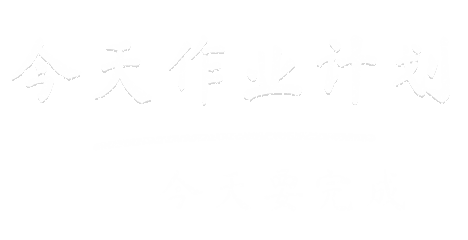
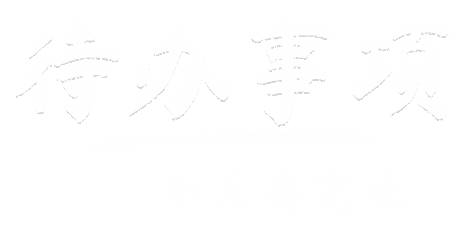
首页第一块黑板标题改成「待办事项」
粉笔字图重新生成（App 和小程序各一份），黑板的无障碍名称、角色图标名字跟着改。
待办模块内页和首页「下一项」那行还叫「今天作业计划」，这次没动。

Claude-Session: https://claude.ai/code/session_01F32sKvEcKYYw6RL2ED99c1

diff --git a/app/src/lib/roleIcons.ts b/app/src/lib/roleIcons.ts
@@ -1,5 +1,5 @@
 /**
- * 角色图标：首页四块黑板上的「试卷小人」，各拿一样东西（今天作业计划拿夹板清单、学习计划拿台历、错题收集拿打叉的卷子、试卷擦除举板擦）。
+ * 角色图标：首页四块黑板上的「试卷小人」，各拿一样东西（待办事项拿夹板清单、学习计划拿台历、错题收集拿打叉的卷子、试卷擦除举板擦）。
  * 身体和插画 Buddy（App components/Illustration.tsx、小程序 components/Buddy.tsx）是同一张画，只是整体左移 16 给道具让位。160×160 画布。
  * 两套主题 × 深浅色各一份配色，和 tokens.css 的 --ill-* 同一套值。设计稿和 SVG 素材在项目文件 screenshots/home-blackboard/。
  * 这个文件 App 和小程序各放一份，内容保持一致（app/src/lib/roleIcons.ts ↔ miniprogram/src/lib/roleIcons.ts）。
@@ -15,7 +15,7 @@ const PALETTES: Record<string, Palette> = {
   pop:            { paper: "#ffffff", paper2: "#ffd6e2", line: "#f4608f", ink: "#4a2a36", cheek: "#ffb4a8", tie: "#00aeec", star: "#ffc53d", ok: "#00aeec", okbg: "#d3f1fd", shadow: "rgba(120,40,70,.12)", wrong: "#f4608f", wrongbg: "#ffe3ec", soft: "#d3f1fd" },
   "pop-dark":     { paper: "#f4f6ff", paper2: "#5a2c3d", line: "#ff8fb0", ink: "#2a1a22", cheek: "#ff9d90", tie: "#5cc8f0", star: "#ffc53d", ok: "#00aeec", okbg: "#d3f1fd", shadow: "rgba(0,0,0,.45)", wrong: "#f4608f", wrongbg: "#ffe3ec", soft: "#d3f1fd" },
 };
-export const ROLE_NAMES: Record<RoleName, string> = { todo: "今天作业计划", plan: "学习计划", wrong: "错题收集", erase: "试卷擦除" };
+export const ROLE_NAMES: Record<RoleName, string> = { todo: "待办事项", plan: "学习计划", wrong: "错题收集", erase: "试卷擦除" };
 
 function inner(scene: RoleName, p: Palette, shadow: boolean): string {
   const S = `stroke="${p.line}" stroke-width="2.5" stroke-linecap="round" stroke-linejoin="round"`;

diff --git a/miniprogram/src/lib/roleIcons.ts b/miniprogram/src/lib/roleIcons.ts
@@ -1,5 +1,5 @@
 /**
- * 角色图标：首页四块黑板上的「试卷小人」，各拿一样东西（今天作业计划拿夹板清单、学习计划拿台历、错题收集拿打叉的卷子、试卷擦除举板擦）。
+ * 角色图标：首页四块黑板上的「试卷小人」，各拿一样东西（待办事项拿夹板清单、学习计划拿台历、错题收集拿打叉的卷子、试卷擦除举板擦）。
  * 身体和插画 Buddy（App components/Illustration.tsx、小程序 components/Buddy.tsx）是同一张画，只是整体左移 16 给道具让位。160×160 画布。
  * 两套主题 × 深浅色各一份配色，和 tokens.css 的 --ill-* 同一套值。设计稿和 SVG 素材在项目文件 screenshots/home-blackboard/。
  * 这个文件 App 和小程序各放一份，内容保持一致（app/src/lib/roleIcons.ts ↔ miniprogram/src/lib/roleIcons.ts）。
@@ -15,7 +15,7 @@ const PALETTES: Record<string, Palette> = {
   pop:            { paper: "#ffffff", paper2: "#ffd6e2", line: "#f4608f", ink: "#4a2a36", cheek: "#ffb4a8", tie: "#00aeec", star: "#ffc53d", ok: "#00aeec", okbg: "#d3f1fd", shadow: "rgba(120,40,70,.12)", wrong: "#f4608f", wrongbg: "#ffe3ec", soft: "#d3f1fd" },
   "pop-dark":     { paper: "#f4f6ff", paper2: "#5a2c3d", line: "#ff8fb0", ink: "#2a1a22", cheek: "#ff9d90", tie: "#5cc8f0", star: "#ffc53d", ok: "#00aeec", okbg: "#d3f1fd", shadow: "rgba(0,0,0,.45)", wrong: "#f4608f", wrongbg: "#ffe3ec", soft: "#d3f1fd" },
 };
-export const ROLE_NAMES: Record<RoleName, string> = { todo: "今天作业计划", plan: "学习计划", wrong: "错题收集", erase: "试卷擦除" };
+export const ROLE_NAMES: Record<RoleName, string> = { todo: "待办事项", plan: "学习计划", wrong: "错题收集", erase: "试卷擦除" };
 
 function inner(scene: RoleName, p: Palette, shadow: boolean): string {
   const S = `stroke="${p.line}" stroke-width="2.5" stroke-linecap="round" stroke-linejoin="round"`;

diff --git a/app/src/pages/Home.tsx b/app/src/pages/Home.tsx
@@ -27,7 +27,7 @@ const DAY_MS = 86400000;
 
 /**
  * 首页（黑板四宫格，界面稿见项目文件 screenshots/home-blackboard/）：
- * 顶部品牌名、「今天，学一点」和连续打卡天数；本周打卡条；四块黑板入口「今天作业计划」「学习计划」「错题收集」「试卷擦除」，
+ * 顶部品牌名、「今天，学一点」和连续打卡天数；本周打卡条；四块黑板入口「待办事项」「学习计划」「错题收集」「试卷擦除」，
  * 黑板颜色跟主题走（--hero-a / --hero-b），粉笔字是烘好的透明图（assets/chalk/，tools/chalk-titles.mjs 生成），小人是角色图标（RoleIcon）；
  * 下面是识别进度、没扫出来的小喇叭通知、今天作业计划的下一项、近 30 天错题数。
  * 打卡：当天作业计划全部做完算打一次卡（服务端 GET /api/homework 带的 checkin）。
@@ -122,7 +122,7 @@ export default function Home() {
         <WeekStrip checkin={checkin} now={now} onClick={() => nav("/homework")} />
 
         <div className="hb__grid rise" style={{ ["--i" as string]: 0 }}>
-          <Board role="todo" chalk={chalkTodo} doodle="sun" badge={todoBadge} label="今天作业计划" onClick={() => nav("/homework")} />
+          <Board role="todo" chalk={chalkTodo} doodle="sun" badge={todoBadge} label="待办事项" onClick={() => nav("/homework")} />
           <Board role="plan" chalk={chalkPlan} doodle="star" badge={planBadge} label="学习计划" onClick={() => nav("/plans")} />
           <Board role="wrong" chalk={chalkWrong} doodle="star" badge={wrongBadge} label="错题收集" onClick={add.open} />
           <Board role="erase" chalk={chalkErase} doodle="sun" math="6 ÷ 2 =" label="试卷擦除" onClick={erase} />

diff --git a/miniprogram/src/pages/home/index.tsx b/miniprogram/src/pages/home/index.tsx
@@ -26,7 +26,7 @@ const WEEKDAY = ["日", "一", "二", "三", "四", "五", "六"];
 
 /**
  * 首页（和 App 一致，界面稿见项目文件 screenshots/home-blackboard/）：顶部品牌名、「今天，学一点」和连续打卡天数；本周打卡条；
- * 四块黑板入口「今天作业计划」「学习计划」「错题收集」「试卷擦除」（板面颜色跟主题走，粉笔字是 assets/chalk/ 里烘好的透明图，小人是 lib/roleIcons.ts 的角色图标）；
+ * 四块黑板入口「待办事项」「学习计划」「错题收集」「试卷擦除」（板面颜色跟主题走，粉笔字是 assets/chalk/ 里烘好的透明图，小人是 lib/roleIcons.ts 的角色图标）；
  * 下面是识别进度、没扫出来的小喇叭通知、今天作业计划的下一项、近 30 天错题数。打卡：当天作业计划全部做完算打一次卡（GET /api/homework 带的 checkin）。
  */
 export default function Home() {

diff --git a/README.md b/README.md
@@ -24,7 +24,7 @@ mistake-book/
 
 一条可以循环的闭环：**收集 → 自动识别归档 → 错题榜分析 → 一键导出**。底部导航 首页 / 试卷 / 相机 / 分析 / 我的，各页去掉大标题，改为细顶栏。主题是上海初中校服配色：藏青主色、酒红（领带色）点缀，令牌在 `styles/tokens.css`。
 
-- **首页**（`pages/Home.tsx`，小程序 `pages/home`）：品牌名「上壹课」、「今天，学一点」和连续打卡天数；本周打卡条（周一到周日）；四块黑板入口「今天作业计划」「学习计划」「错题收集」「试卷擦除」，每块右下角一个数（还剩几项、几份待交、本周新收几道错题）。黑板板面跟主题走（`--hero-a` / `--hero-b`），粉笔字是烘好的透明图（`assets/chalk/`，改字用 `tools/chalk-titles.mjs` 重新生成，不打包字体），左下角的小人是角色图标（`lib/roleIcons.ts`，两端各一份，App 用 `components/RoleIcon.tsx`）。下面依次是识别进度、没扫出来的小喇叭通知、今天作业计划的下一项（点「开始 / 继续」直接去做）、近 30 天错题数（点进「分析」）。打卡：当天作业计划全部做完算打一次卡，`GET /api/homework` 带 `checkin`（连续天数、本周七天）。界面稿和角色图标 SVG 在项目文件 `screenshots/home-blackboard/`。
+- **首页**（`pages/Home.tsx`，小程序 `pages/home`）：品牌名「上壹课」、「今天，学一点」和连续打卡天数；本周打卡条（周一到周日）；四块黑板入口「待办事项」「学习计划」「错题收集」「试卷擦除」，每块右下角一个数（还剩几项、几份待交、本周新收几道错题）。黑板板面跟主题走（`--hero-a` / `--hero-b`），粉笔字是烘好的透明图（`assets/chalk/`，改字用 `tools/chalk-titles.mjs` 重新生成，不打包字体），左下角的小人是角色图标（`lib/roleIcons.ts`，两端各一份，App 用 `components/RoleIcon.tsx`）。下面依次是识别进度、没扫出来的小喇叭通知、今天作业计划的下一项（点「开始 / 继续」直接去做）、近 30 天错题数（点进「分析」）。打卡：当天作业计划全部做完算打一次卡，`GET /api/homework` 带 `checkin`（连续天数、本周七天）。界面稿和角色图标 SVG 在项目文件 `screenshots/home-blackboard/`。
 - **录入**：底部中间相机键（`components/TabBar.tsx`）弹出「拍照 / 相册导入」。不先选文件夹：放进今天建的文件夹，没有就自动新建（`autoTargetFolder`）。相册多选进批量导入页（`pages/Import.tsx`，`store/importer.ts`），可合成一份试卷（跨页题能接上）或每张一份，带目录预览；照片网格末尾的「添加」格可以继续拍照或从相册追加，单张右上角可去掉。
 - **自动归档**（`lib/jobs.ts` `finishJob`）：识别完把默认名「第 N 份」换成卷头标题，默认文件夹名补上学科和考试类型；用户改过的名字不动。文件夹页「目录」列出每份试卷的大题和每题错几道。
 - **分析 = 错题榜**（`pages/Ranking.tsx`，路由 `/rank`，旧的 `/library` 自动跳转）：时间范围（7 天 / 30 天 / 全部）、学科页签，左侧切四个榜：易错题、知识点、反复错（同一知识点两份以上试卷都错）、空白（没作答）。易错指数（0–100）在 `lib/ranks.ts`：同知识点错题数、答错 / 半对 / 未作答、跨几份试卷、离现在多近。榜单下面是每周错题柱状图。
